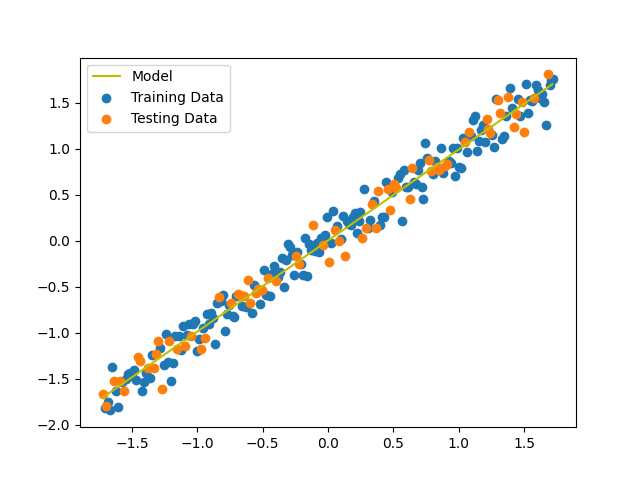
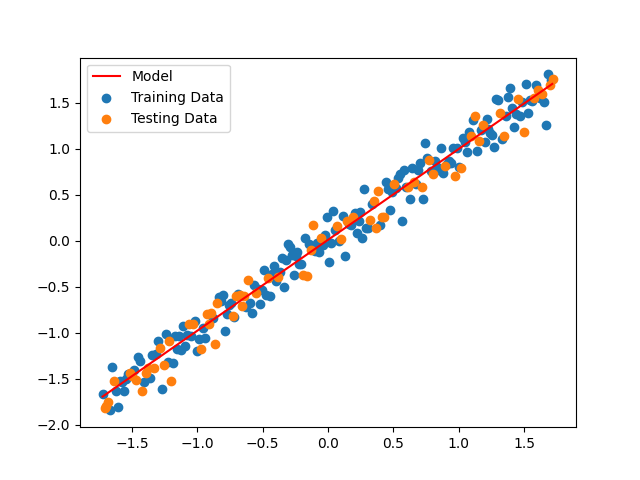
Changed: Color of the hypothesis plot

Changed region(s): [[0.1562, 0.3125, 0.75, 0.875], [0.7188, 0.125, 0.875, 0.3125], [0.1562, 0.1562, 0.1875, 0.1875]]

diff --git a/src/modules/plotter.py b/src/modules/plotter.py
@@ -21,7 +21,7 @@ class Plotter:
     def scatter_data(self, data_min, data_max, save=False):
         x_ = np.arange(data_min, data_max, 0.01)
 
-        plt.plot(x_, [self.model.predict([x]) for x in x_], 'y', label='Model')
+        plt.plot(x_, [self.model.predict([x]) for x in x_], 'r', label='Model')
 
         plt.scatter(self.training_inputs, self.training_outputs, label='Training Data')
         plt.scatter(self.testing_inputs, self.testing_outputs, label='Testing Data')
